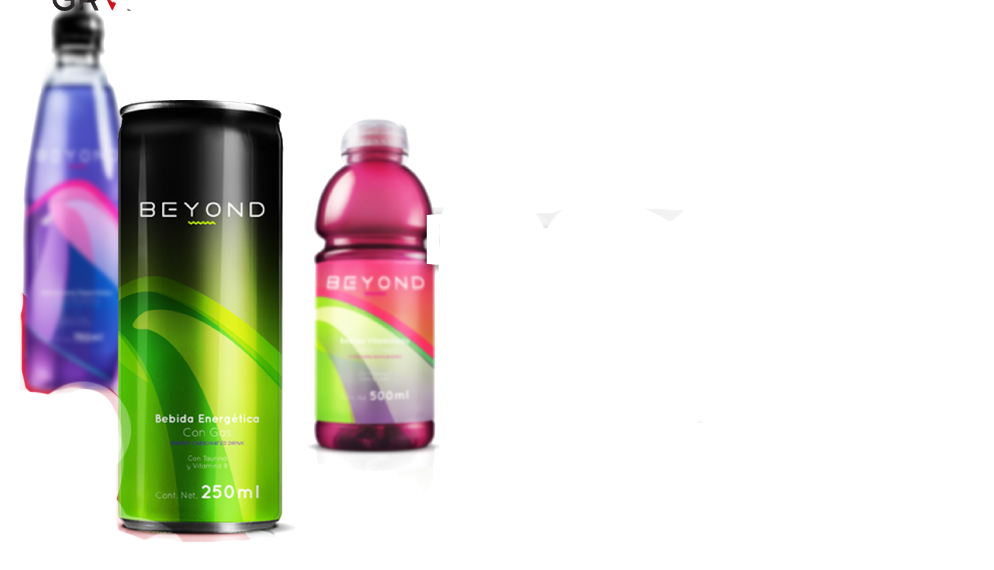
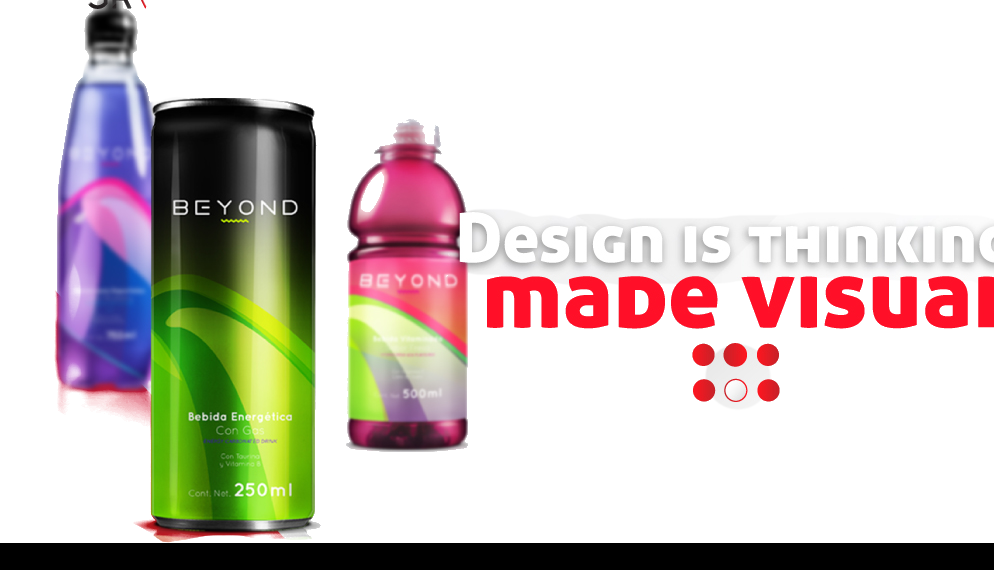
home v4

diff --git a/wp-content/themes/devindrytheme/style.css b/wp-content/themes/devindrytheme/style.css
@@ -68,3 +68,40 @@ Template: _tk-master
     top: 205px;
     width: 66%;
 }
+
+.flex-control-paging li a {
+    border-radius: 20px;
+    box-shadow: 0 0 3px rgba(0, 0, 0, 0.3) inset;
+    display: block;
+    height: 30px;
+    width: 30px;
+}
+#content .metaslider ol{
+	/*margin: 0 0 0 44% !important;*/
+	position:relative;
+	/*float:left;*/
+	left:215px;
+	top:-210px;
+	z-index:500;
+}
+
+
+/* footer */
+.site-footer{
+	background-color:#fff;
+	width:100%;
+	-moz-opacity: 0.70;
+	-khtml-opacity: 0.70;
+	opacity: 0.70;
+	-ms-filter:"progid:DXImageTransform.Microsoft.Alpha"(Opacity=70);
+	filter: progid:DXImageTransform.Microsoft.Alpha(opacity=70);
+	filter:alpha(opacity=70);
+	height:45px;
+	line-height:45px
+	}
+.credits-footer{
+	font-weight:600;
+	}
+.copyright{
+	font-style:italic;
+	}

diff --git a/wp-content/themes/devindrytheme/footer.php b/wp-content/themes/devindrytheme/footer.php
@@ -19,10 +19,7 @@
 			<div class="site-footer-inner col-sm-12">
 
 				<div class="site-info">
-					<?php do_action( '_tk_credits' ); ?>
-					<a href="http://wordpress.org/" title="<?php esc_attr_e( 'A Semantic Personal Publishing Platform', '_tk' ); ?>" rel="generator"><?php printf( __( 'Proudly powered by %s', '_tk' ), 'WordPress' ); ?></a>
-					<span class="sep"> | </span>
-                    <a class="credits" href="http://themekraft.com/" target="_blank" title="Themes and Plugins developed by Themekraft" alt="Themes and Plugins developed by Themekraft"><?php _e('Themes and Plugins developed by Themekraft.','_tk') ?> </a>
+					<span class="credits-footer">Empackgraphics Design Group 2015</span> <span class="copyright">Todos los derechos reservados</span>
 				</div><!-- close .site-info -->
 
 			</div>

diff --git a/wp-content/themes/devindrytheme/page-inicio.php b/wp-content/themes/devindrytheme/page-inicio.php
@@ -19,4 +19,4 @@ get_header(); ?>
 	<?php endwhile; // end of the loop. ?>
 
 <?php /* get_sidebar(); */?>
-<?php /*get_footer();*/ ?>
+<?php get_footer(); ?>
